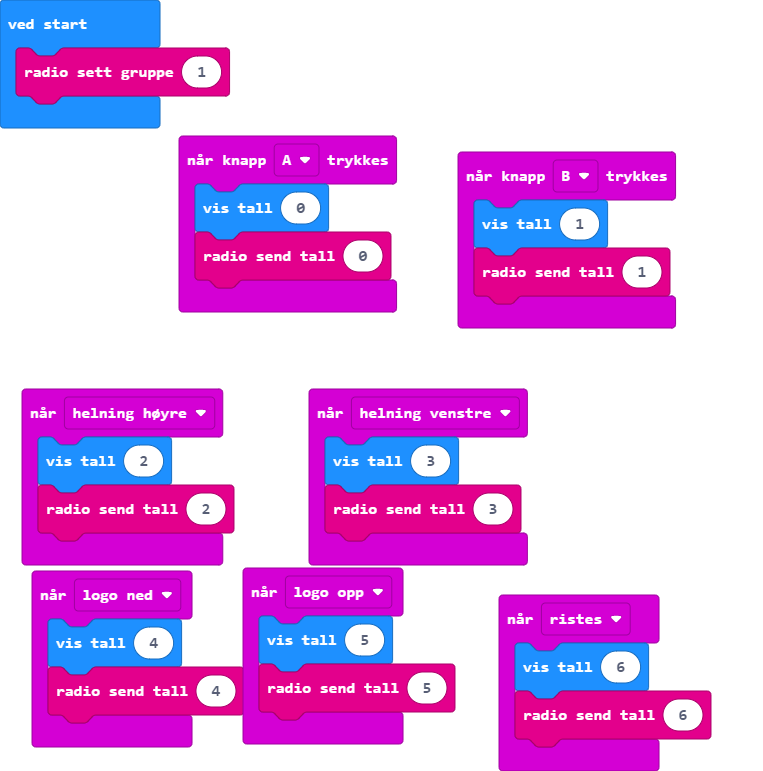
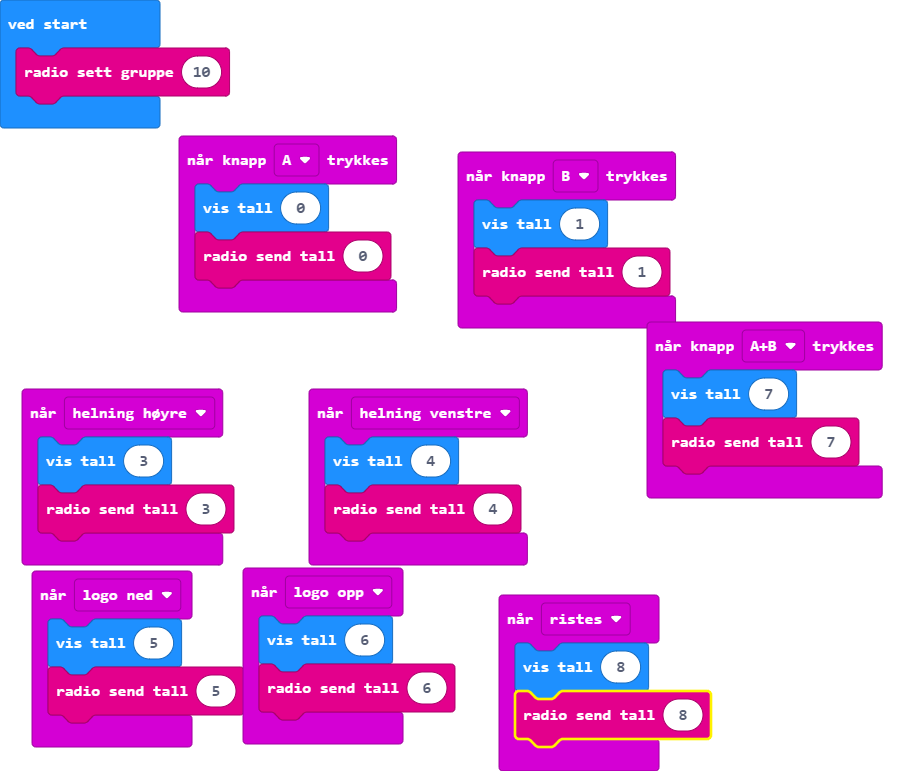
Oppdater pxt.json, main.blocks, main.ts

diff --git a/main.ts b/main.ts
@@ -3,27 +3,31 @@ input.onButtonPressed(Button.A, function () {
     radio.sendNumber(0)
 })
 input.onGesture(Gesture.TiltRight, function () {
-    basic.showNumber(2)
-    radio.sendNumber(2)
+    basic.showNumber(3)
+    radio.sendNumber(3)
 })
 input.onGesture(Gesture.Shake, function () {
+    basic.showNumber(8)
+    radio.sendNumber(8)
+})
+input.onGesture(Gesture.LogoUp, function () {
     basic.showNumber(6)
     radio.sendNumber(6)
 })
-input.onGesture(Gesture.LogoUp, function () {
-    basic.showNumber(5)
-    radio.sendNumber(5)
+input.onButtonPressed(Button.AB, function () {
+    basic.showNumber(7)
+    radio.sendNumber(7)
 })
 input.onButtonPressed(Button.B, function () {
     basic.showNumber(1)
     radio.sendNumber(1)
 })
 input.onGesture(Gesture.TiltLeft, function () {
-    basic.showNumber(3)
-    radio.sendNumber(3)
-})
-input.onGesture(Gesture.LogoDown, function () {
     basic.showNumber(4)
     radio.sendNumber(4)
 })
-radio.setGroup(1)
+input.onGesture(Gesture.LogoDown, function () {
+    basic.showNumber(5)
+    radio.sendNumber(5)
+})
+radio.setGroup(10)
